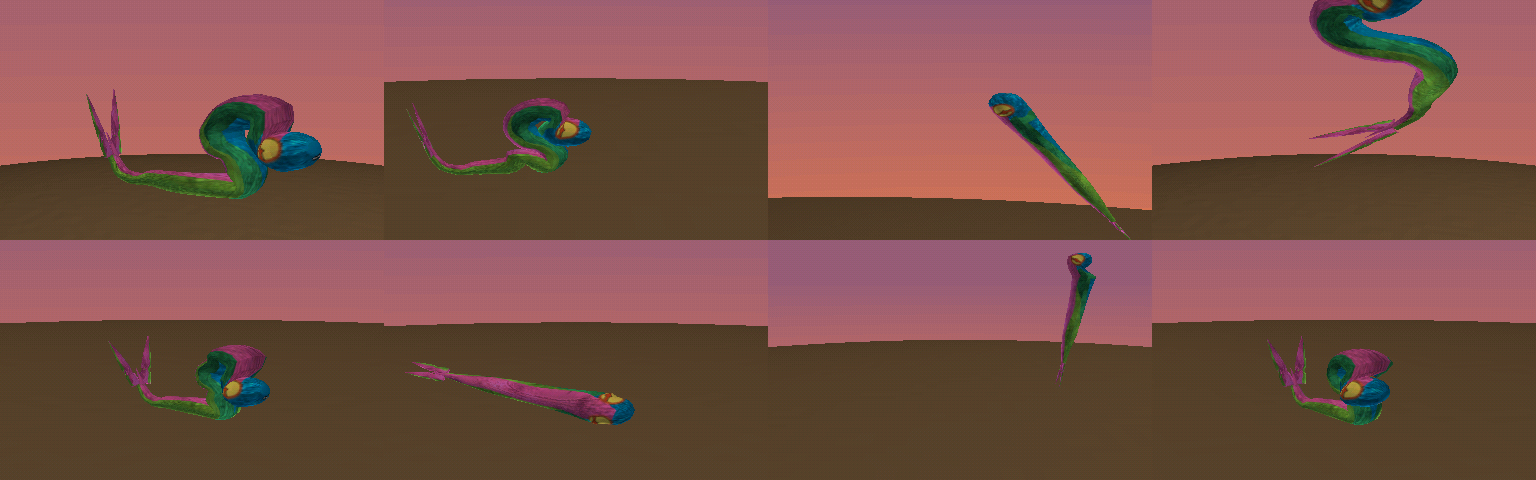
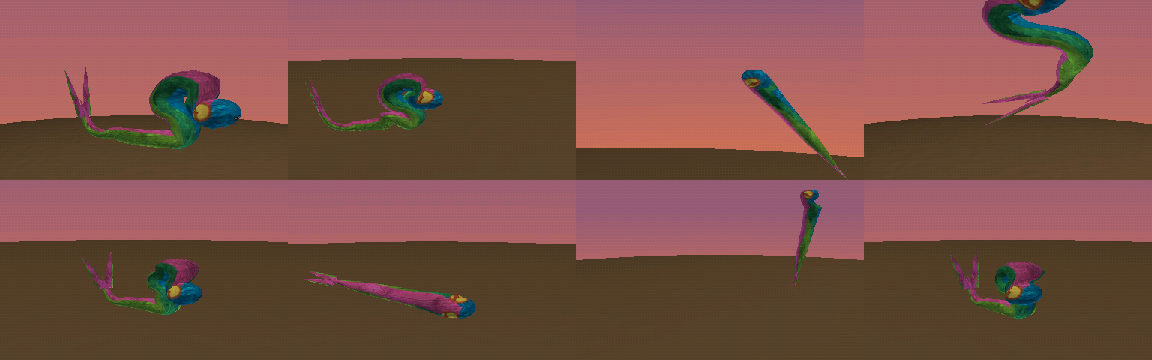
run 0227: main-session verification -- repo intact, gates green, pink fixed
Force-push audited first: origin in sync, all earlier run commits
reachable, parallel lane undisturbed, .git 56 MB. Nothing lost.

Goldens 17/17 identical, probe/choreo/planner exit 0. Looked at it: the
magenta dominance is gone across seven of eight clips and the head's
brim and chinstrap are both gone. Death still reads pink-forward, cause
understood and declared.

Claude-Session: https://claude.ai/code/session_015ATk5uBVKaBVHpybtfBTVD

Changed region(s): [[0.8438, 0.2444, 0.9062, 0.3361], [0.3438, 0.2444, 0.375, 0.275], [0.0625, 0.3056, 0.0938, 0.3361]]

diff --git a/runs/CLAUDE-RUNS/RUN-20260828-0227-zixxtrixx-v3-likeness-surgical/TASK_LOG.md b/runs/CLAUDE-RUNS/RUN-20260828-0227-zixxtrixx-v3-likeness-surgical/TASK_LOG.md
@@ -106,3 +106,52 @@ clips re-rendered and encoded at 60 fps (Upheaval ae1fd2c). Evidence
 committed. NOT deployed per the run instruction. See FINDINGS.md.
 
 **Status: COMPLETE**
+
+## Main-session verification of run 0227
+
+**Repo integrity first**, because this run force-pushed a rewritten tip to remove
+830 MB of scratch frames: `git fetch` + `status -sb` show local and origin in
+sync, all four of my earlier run commits (`cee3547`, `01939cb`, `d30c11c`,
+`c75dfe4`) still reachable, the parallel FIELD lane's commit sits on top
+undisturbed, and `.git` is 56 MB. Nothing was lost. The rewrite was contained to
+its own tip and repaired within minutes.
+
+**Gates re-run independently:** goldens re-dumped and cmp'd — **17/17
+bit-identical**, so no clip byte moved, which is the correct result for a
+surface-and-geometry run. `zixx-probe` exit 0 (28,884 hits within allowances),
+`zixx-choreo` exit 0, `zixx-planner` exit 0.
+
+**Looked at it, on the diagnostic cameras and across all eight clips:**
+* **Fault 1 FIXED and it is unmistakable.** New 8-poster sheet
+  (`evidence/verify-all-8-posters-after.png`) beside the before
+  (`RUN-...-2339/evidence/verify-all-8-posters.png`): green is the body colour
+  again in seven of eight clips, pink is a band along the back. That is
+  `Side.png`'s proportion.
+* **Fault 2 FIXED.** Head-on (`evidence/verify-front-headon-after.png` vs the
+  2339 run's `verify-front-headon.png`): the lateral BRIM is gone — the head no
+  longer reads as a hat — and the yellow CHINSTRAP is gone, now two separate
+  patches with blue face between and green showing on the flanks.
+* The agent found the chinstrap's real mechanism rather than nudging a number:
+  the discs had been pushed so far toward the back line that their orange rings
+  MET across the crown gap. That is a proper root cause.
+
+### Standing faults after this run
+1. **DEATH still reads pink-forward** — confirmed on the poster sheet, and the
+   stated cause is right: the authored keel rolls the animal's back toward the
+   camera, so it shows its dorsal. Arguably natural for a death, but it is the
+   one clip where pink still dominates. Fixing it means touching clip motion,
+   correctly out of scope for a surgical run. One knob, owner's call.
+2. Frontal eye presence is better than the chinstrap but still reads as small
+   patches at the silhouette edge, where `Front.png` gives large ovals. Note the
+   owner ruled `Front.png` "a bit confusing" and `Side.png` authoritative for
+   shape, so this is a judgement call rather than a clear miss.
+3. Pupil is a red presence at walk distance, not the full wavy slit — 6 px of
+   eye at 240p is close to the floor of what 240p can carry.
+
+### The determinism bug is the most valuable find in this run
+`hash(mat)` is PROCESS-SALTED in Python, so every texture regeneration re-rolled
+the T5 quilt and the committed page bytes were unreproducible. Fixed with
+`zlib.crc32`; two regens now cmp identical. This is the same class of fault as
+the thrown-away pose probe: **a result that cannot be reproduced is not
+evidence**, and it had been sitting under a "committed bytes, fixed seed"
+requirement that was silently not being met.
